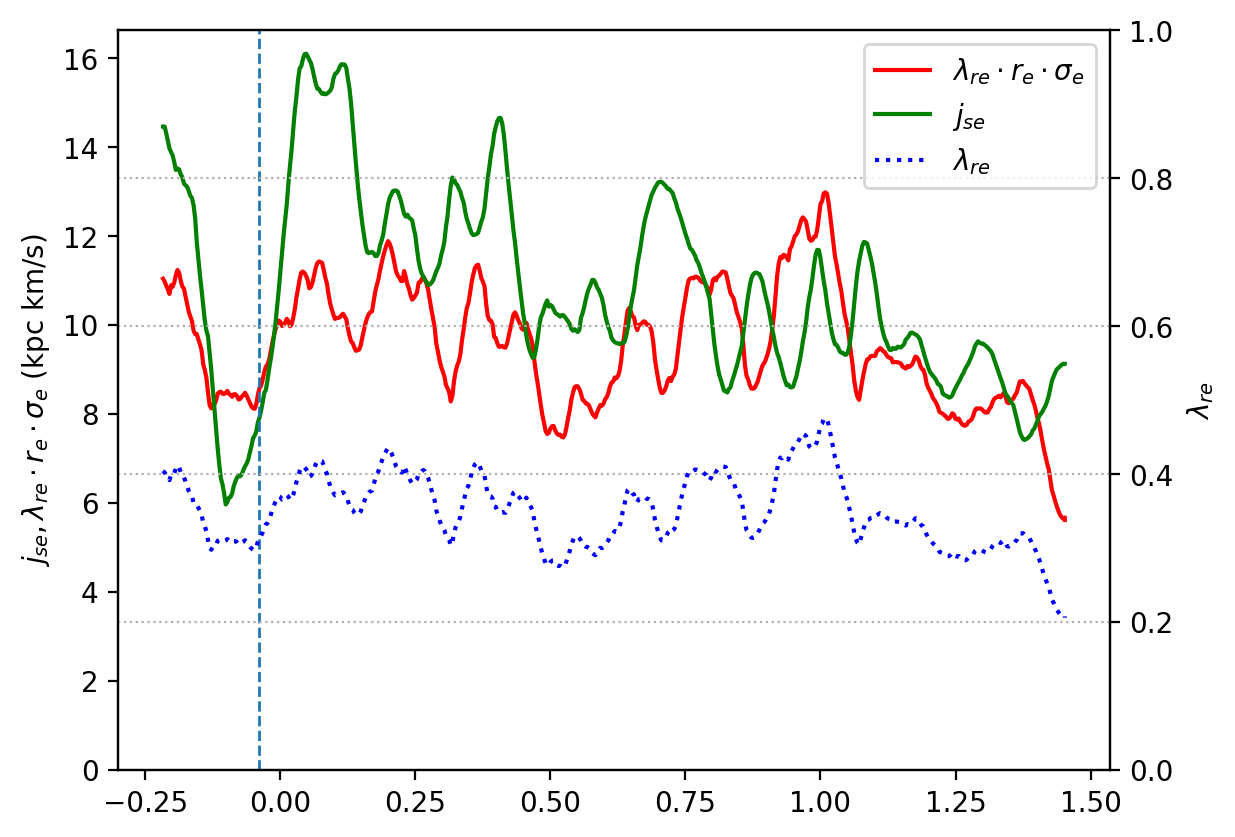
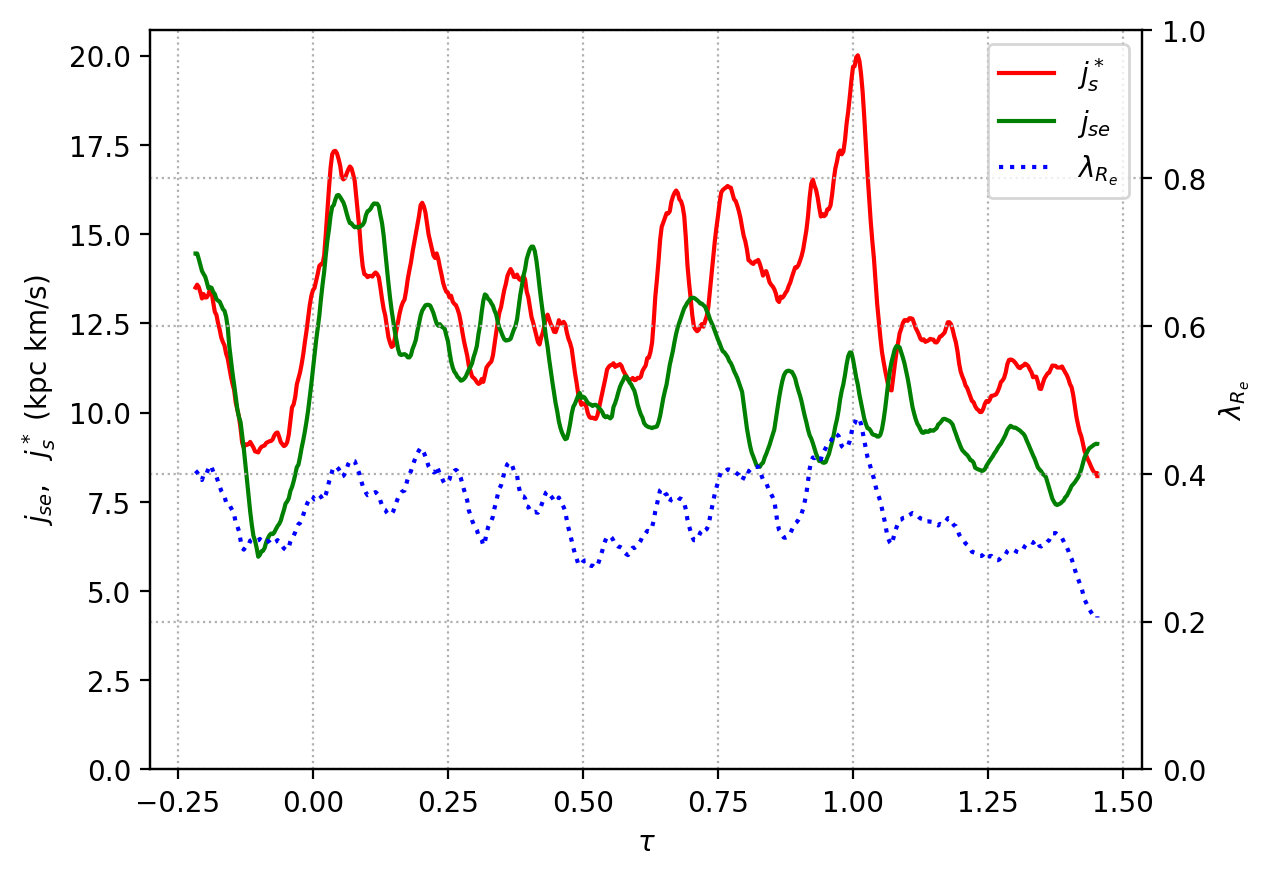
reorder lambda_r paragraph

diff --git a/03_sim_results.tex b/03_sim_results.tex
@@ -487,11 +487,11 @@ In our measurements, $\lambda_R$ fails to distinguish pericenter passages unequi
 \subsection{Relation between $\lambda_R$ and physical angular momentum}
 In Figure~\ref{fig:lambda_r_j_s}, in order to compare $\lambda_R$ and the angular momentum of the galaxies in an observationally motivated way, we chose to observe the galaxy from the plane of the orbit, not changing its point of view along its evolution.
 Given the spin of the galaxy in correspondence of the pericenter (as shown in the previous section), from this point of view the pericenter passage should be visible in $\lambda_R$ at the highest extent.
+In Figure~\ref{fig:lambda_r_j_s}, $j_s$ is the component of the angular momentum perpendicular to the orbital plane.
+It is in fact affected by pericenter passages.
 
-First we compute the specific angular momentum $\vect{j}_{s}$ of star particles within $10$~kpc from the center of the galaxy.
-\begin{equation}
-\vect{j}_{se} = \sum_{i\in S} \vect{r}_i\cross\vect{v}_i,\quad \text{where } S\equiv\{k: \norm{\vect{r}_k} < R_e.\}
-\end{equation}
+It is striking how $\lambda_R$ oscillates along the orbit (\eg{} see panel $69p150$) and this highlight how inherently variable $\lambda_R$ is.
+
 % \begin{equation}
 % \vect{j}_s = \sum_{i\in S} \vect{r}_i\cross\vect{v}_i,\quad \text{where } S\equiv\{k: \norm{\vect{r}_k} < 10 \text{~kpc.}\}
 % \end{equation}
@@ -499,28 +499,75 @@ First we compute the specific angular momentum $\vect{j}_{s}$ of star particles 
 % We compare $\vect{j}_{s}$ with $\lambda_R$ in Figure \ref{fig:lambda_r_j_s}.
 
 
-\subsubsection{Comparing $j_{se}$ with observables} In order to compare the proxy $\lambda_R$ with the angular momentum, we try to retrieve an approximate formula for the specific angular momentum which relies on observable quantities:
+\subsubsection{Comparing $\lambda_R$ with observables}
+We would like to investigate more the oscillating behaviour $\lambda_R$ shown in Figure~\ref{fig:lambda_r_j_s}.
+We tried to use $\lambda_R$ as a starting point to compute the physical angular momentum.
+To do so, we try to retrieve an approximate formula for the specific angular momentum which relies on observable quantities:
 \begin{equation}
  j_s^* = \lambda_R\, R_e\, \sigma_e
+ \label{eq:js*}
 \end{equation}
 where $\sigma_e$ is the line-of-sight velocity dispersion of star particles measured within an aperture of $R_e$.
+For a fair comparison we compute the specific angular momentum $\vect{j}_{se}$ of star particles within $R_e$.
+\begin{equation}
+  \vect{j}_{se} = \sum_{i\in S} \vect{r}_i\cross\vect{v}_i,\quad \text{where } S\equiv\{I: \norm{\vect{r}_I} < R_e.\}
+\end{equation}
 % This formula reasonably reintroduces physical dependency.
+The relation between $j_{se} = \norm{\vect{j}_{se}}$ and $j_s^*$ is shown in Figure~\ref{fig:lambda_r_j_s_sigma}.
+To simplify the treatment, as a first approximation, the snapshot have been rotated edge-on.
 
 \begin{figure}
   \centering
-  \includegraphics[height=0.42\textheight]{lambda_r_j_s_69p150r100.png}
-  \caption{Comparison between specific angular momentum $j_{se}$ and $\lambda_R$ at the effective radius for ID 69 on a 150 kpc orbit.
-    $\lambda_R$ is computed viewing the galaxy side-on.
-    Curves are smoothed using a rolling average of 0.2~Gyr.}
+  \begin{subfigure}[t]{0.93\textwidth}
+  \centering
+  \caption{ID 69}
+  \label{fig:lambda_r_j_s_sigma_69}
+  \includegraphics[width=\textwidth]{lambda_r_j_s_69p200r100}
+ \end{subfigure}\\
+ \begin{subfigure}[t]{0.93\textwidth}
+  \centering
+  \caption{ID 41}
+  \label{fig:lambda_r_j_s_sigma_41}
+  \includegraphics[width=\textwidth]{lambda_r_j_s_41p200r100}
+ \end{subfigure}
+%  \includegraphics[height=0.42\textheight]{lambda_r_j_s_69p200r100.png}
+  \caption{Comparison between specific angular momentum $j_{se}$ and $\lambda_R$ at the effective radius for simulation ID 69 and ID 41 on a 200 kpc orbit.
+  $\lambda_R$ is computed viewing the galaxy side-on.
+  Curves are smoothed using a rolling average of 0.2~Gyr.}
   \label{fig:lambda_r_j_s_sigma}
 \end{figure}
 
-The relation between $\lambda_R$ and $j_s^*$ is shown in Figure~\ref{fig:lambda_r_j_s_sigma}
+It is interesting to see how for the case of simulation ID 69 in Figure~\ref{fig:lambda_r_j_s_sigma_69} the order of magnitude of $j_s^*$ is strikingly in accord with the measured $j_{se}$ from the particles.
+For simulation ID 41, on the other hand, there is no correlation.
+Given that ID 41 is more massive, we inspected the possibility that by computing both $j_{se}$ and $j_s^*$ within $2 R_e$ a tighter relation between them would emerge.
+Figure~\ref{fig:lambda_2r_j_s_sigma} does not support this theory, and the gap between $j_{se}$ and $j_s^*$ increases for the doubled radial limit.
+
+We conclude that in the dwarf-irregular regime covered by our simulations the adapted proxy $j_s^*$ computed in equation \eqref{eq:js*} is not a good tracker of angular momentum.
+
 
 %As also found by, ... we confirm that it is very sensitive to recent episode of star formation, especially the ones due to gas stripping, where young stars are
 % For these reasons in the case of dwarf irregulars it is not a good indicator of the real rotation of the galaxy.
 
-\section{Conclusion}
+\begin{figure}
+  \centering
+  \begin{subfigure}[t]{\textwidth}
+    \centering
+    \caption{ID 69}
+    \label{fig:lambda_2r_j_s_sigma_69}
+    \includegraphics[width=0.93\textwidth]{lambda_r_j_s_69p200r100_2re_only}
+  \end{subfigure}\\
+  \begin{subfigure}[t]{\textwidth}
+    \centering
+    \caption{ID 41}
+    \label{fig:lambda_2r_j_s_sigma_41}
+    \includegraphics[width=0.93\textwidth]{lambda_r_j_s_41p200r100_2re_only}
+  \end{subfigure}
+  %  \includegraphics[height=0.42\textheight]{lambda_r_j_s_69p200r100.png}
+  \caption{Same as Figure~\ref{fig:lambda_r_j_s_sigma}, but using the limit of $2 R_e$ to compute $j_{se}$ and $\lambda_R$.}
+  \label{fig:lambda_2r_j_s_sigma}
+\end{figure}
+
+\section{Conclusions}
 
 \begin{itemize}
  \item $\lambda_R$ is very variable with time in the dwarf irregular regime.
